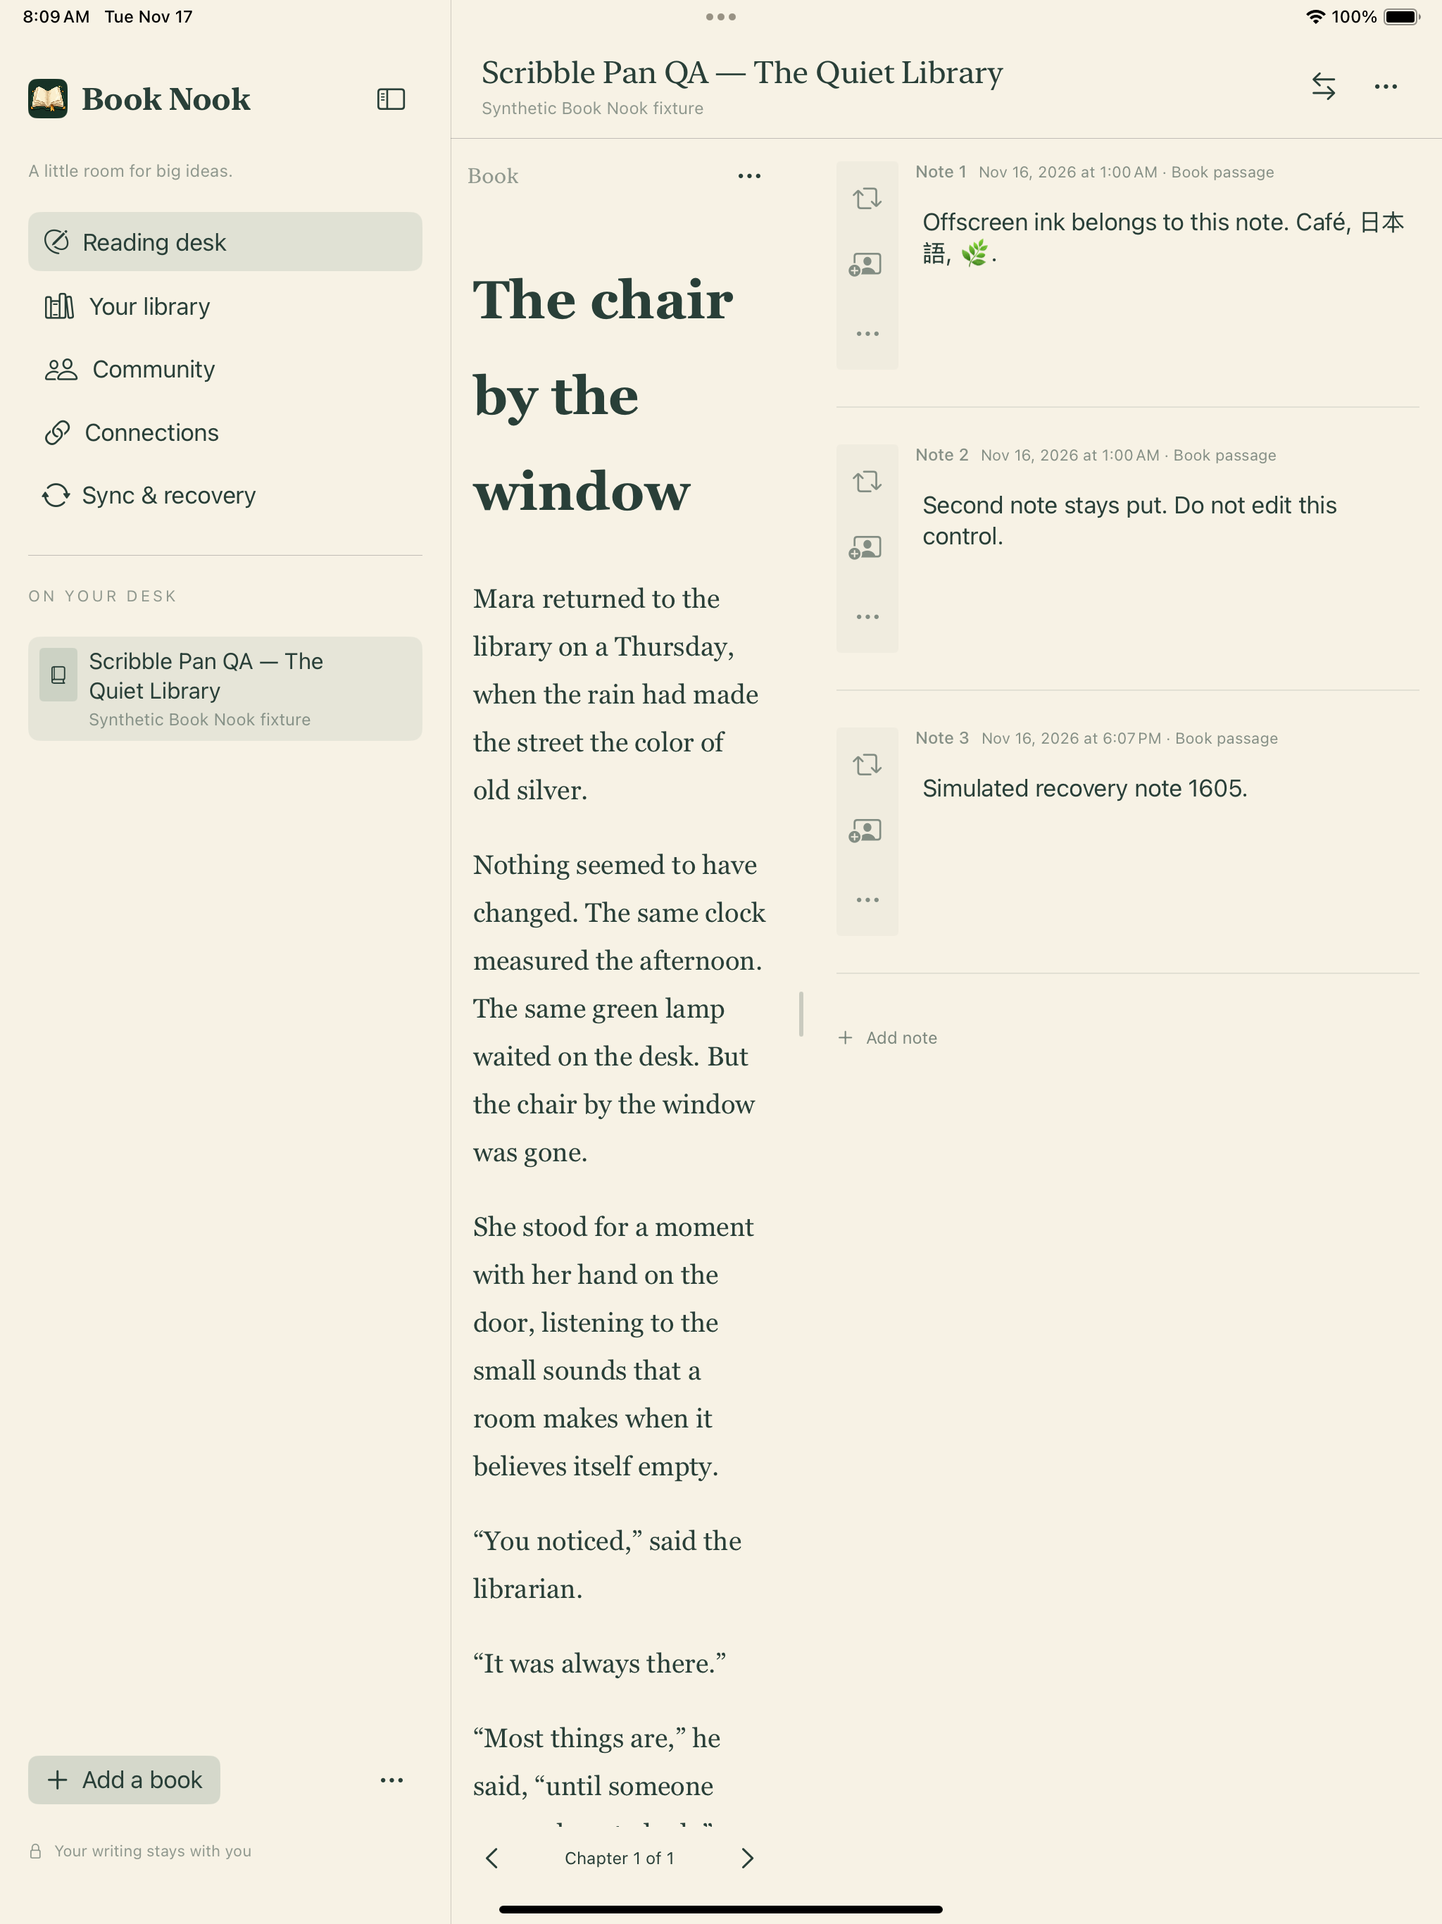
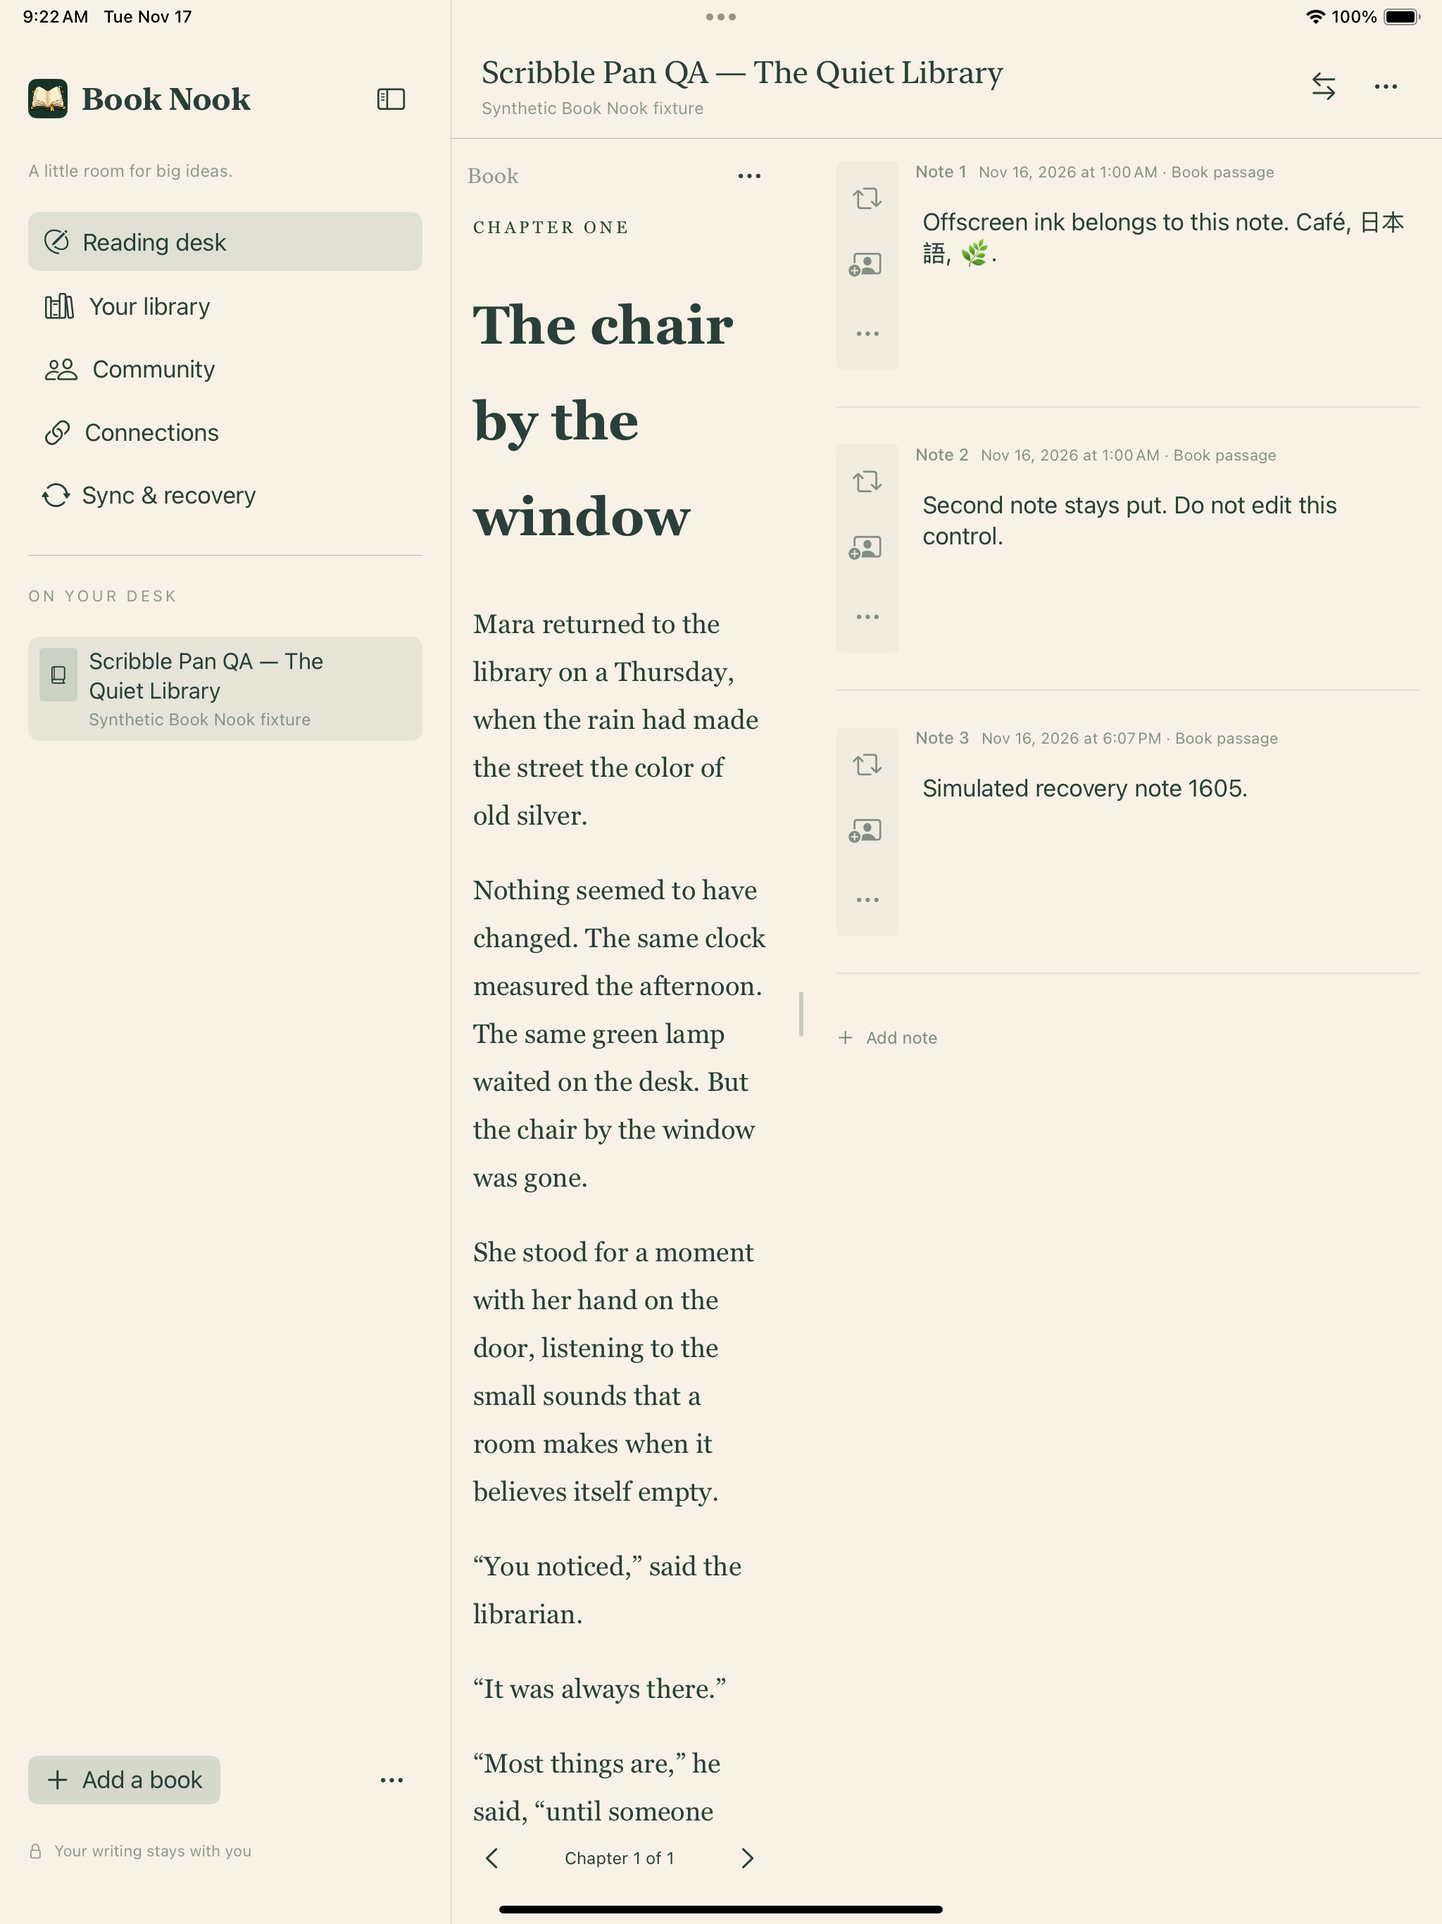
Document Book Nook app preview 1704 and refresh screenshots

Changed region(s): [[0.3125, 0.3111, 0.5312, 0.9645], [0.3125, 0.1245, 0.5, 0.28], [0.0312, 0.0, 0.0625, 0.0311]]

diff --git a/docs/PLAN-ACCEPTANCE.md b/docs/PLAN-ACCEPTANCE.md
@@ -10,15 +10,17 @@ This audit keeps the original native MVP and SDK scope intact. A passing source 
 
 Saving a character-card revision now captures the selected passage, time, reading pass, and available ebook and audio observations at the same point. The linked Swift workflow checks an unacknowledged reader observation, fresher ebook and audio updates, and a late branch outside the reviewed parents. The original context and independent branch survive SQLite reopen. The native portable archive regression also verifies export and restore. Older save commands and stored card versions use their existing contracts. [Versioned command schema and fixture](../ontology/commands/v1/manifest.json)
 
-## Native app 1704 source checkpoint
+## Native app 1704 public preview and iPad update
+
+[Build 1704 evidence](app-2026111704-public-preview-evidence.json) records three independently verified archives, eight matching public downloads, and the normal iPad update. A reader drew with a finger on 1703, and the saved stroke survived the update and relaunch. Pencil, hardware Undo/Redo, IME, VoiceOver, and minimum-OS execution remain open.
 
 Actual WebKit tests reproduce long EPUB and MOBI text runs losing their interior reading position in 1703. Two distinct visible lines now produce independent bounded quotes and reopen at the right text, including after font reflow. A separate native bridge test holds the initial restore to verify that provisional geometry cannot overwrite the saved location. Existing full-run locations remain readable, and ambiguous new positions leave the last saved location intact.
 
-The native group reply workflow binds the draft to an eligible parent in the same group and identifies that parent in the consent request. The Swift and SQLite workflow verifies exact reply content, eligibility, denied approval and draft recovery after reopening. A separate Mac Release walkthrough used a synthetic group to enter Unicode, mark spoilers, switch between Feed and Groups, and recover the exact unpublished draft after the locked signer refused approval. The polished composer uses the desk’s warm paper and names the group. Physical iPad interaction, live consent, relay delivery and public app archives have separate acceptance checks.
+The native group reply workflow binds the draft to an eligible parent in the same group and identifies that parent in the consent request. The Swift and SQLite workflow verifies exact reply content, eligibility, denied approval and draft recovery after reopening. A separate Mac Release walkthrough used a synthetic group to enter Unicode, mark spoilers, switch between Feed and Groups, and recover the exact unpublished draft after the locked signer refused approval. The polished composer uses the desk’s warm paper and names the group. Physical group interaction, live consent, and relay delivery remain open.
 
 ## Native app 1703 attached editions
 
-[Build 1703 evidence](app-2026111703-public-preview-evidence.json) records a hands-on Mac edition switch, an actual WebKit EPUB check, and SQLite recovery of placements and highlights for both editions. All three exact archives, eight public downloads, and the in-place physical iPad update passed. Both [reading desk screenshots](screenshots/README.md) use the released build. Current physical input and minimum-OS execution remain open.
+[Build 1703 evidence](app-2026111703-public-preview-evidence.json) records a hands-on Mac edition switch, an actual WebKit EPUB check, and SQLite recovery of placements and highlights for both editions. All three exact archives, eight public downloads, and the in-place physical iPad update passed. The earlier reading desk screenshots used the released build. The later 1704 checkpoint records the follow-up on physical finger input and update preservation.
 
 ## Native app 1702 EPUB placement feedback
 
@@ -200,7 +202,7 @@ This later user request adds notebook handwriting, retained original ink after t
 | Denied/expired authority and forged identity | Exact issuer/holder signature and replay tests, binding revocation and policy changes, private admission proof negative cases. |
 | Relay outage/duplicate/membership change | Independent local relay ACK/outage/restart plus actual three-native-desk private admission/discussion/removal, transactional retry/retraction, causal replay and request-convergence regressions, and native/WASM parity. |
 | Contract parity and lossless exports | Generated-contract freshness, published conformance fixtures, strict typed SDK tests and full native→WASM→native envelope equality for assets, rich text, character history, branched ink/transcripts and social state. Eleven rejected-import cases leave native state unchanged; independent package consumers pass. |
-| Physical input and user interaction | Prior actual macOS typing/undo/paste/highlight/history/reopen/discovery interaction; native framework tests and simulator rendering. Physical iPad tests on 2026-10-15 passed Connections/profile review and settings persistence, exact automated ASCII typing/undo/redo/save/reopen, both Community picker cancellations, reader controls and character-history navigation. A real hardware-keyboard note was verified saved, and the user confirmed Larger text worked. A strict settled geometry check and final uninstrumented undo/redo/reopen pass for repaired caret visibility. The historical compact reader/focus/import-cancellation/reopen path has separate bounded evidence above. No new physical acceptance covers current automatic notebook input or the resizable split. Community file acceptance, remaining controls, Pencil, broader keyboard/IME, VoiceOver and extended use remain open. [Earlier evidence](physical-ipad-evidence.json). |
+| Physical input and user interaction | Prior actual macOS typing/undo/paste/highlight/history/reopen/discovery interaction; native framework tests and simulator rendering. Physical iPad tests on 2026-10-15 passed Connections/profile review and settings persistence, exact automated ASCII typing/undo/redo/save/reopen, both Community picker cancellations, reader controls and character-history navigation. A real hardware-keyboard note was verified saved, and the user confirmed Larger text worked. A strict settled geometry check and final uninstrumented undo/redo/reopen pass for repaired caret visibility. The historical compact reader/focus/import-cancellation/reopen path has separate bounded evidence above. The 1704 checkpoint records 1703 finger input and update preservation. Current Pencil input and the resizable split still need physical interaction checks. Community file acceptance, remaining controls, Pencil, broader keyboard/IME, VoiceOver and extended use remain open. [Earlier evidence](physical-ipad-evidence.json). |
 
 ## Packaging and release boundary
 

diff --git a/docs/DELIVERY.md b/docs/DELIVERY.md
@@ -2,6 +2,8 @@
 
 Book Nook has an integrated native development app and open Rust, Swift, and WASM/TypeScript SDKs. Production qualification still requires live source accounts, operational Castalia authority, remote exchange, hands-on physical iPad checks, and runtime checks on the oldest supported OS versions.
 
+[Native app preview 0.2.1, build 2026111704](https://github.com/bananawalnut/booknook/releases/tag/v0.2.1-app-preview.20261117.4) adds group replies and recovers the visible line inside long EPUB and MOBI text runs. All 38 source CI steps, three independently verified Apple archives and eight public downloads passed. The normal iPad app updated in place and launched with its library, saved ink and observed orientation preserved. The finger stroke was drawn on 1703. Pencil, hardware Undo/Redo, IME and VoiceOver remain open. [Build 1704 evidence](app-2026111704-public-preview-evidence.json)
+
 [Native app preview 0.2.1, build 2026111703](https://github.com/bananawalnut/booknook/releases/tag/v0.2.1-app-preview.20261117.3) lets readers reopen earlier attached editions with their respective positions and highlights. All 38 source CI steps, three independently checked Apple archives and eight public downloads passed. The released Mac app switched between a synthetic MOBI and EPUB. The normal physical iPad app launched with its database and orientation preserved after the update. [Build 1703 evidence](app-2026111703-public-preview-evidence.json)
 
 [Native app preview 0.2.1, build 2026111702](https://github.com/bananawalnut/booknook/releases/tag/v0.2.1-app-preview.20261117.2) reports why an EPUB highlight is unplaced and keeps the saved quote and chapter in reach. All 38 source CI steps, three independently checked Apple archives and eight public downloads passed. The normal iPad app launched after an in-place update with the database and orientation preserved. [Build 1702 evidence](app-2026111702-public-preview-evidence.json)
@@ -12,7 +14,7 @@ Book Nook has an integrated native development app and open Rust, Swift, and WAS
 
 [SDK 0.2.2 delivery evidence](sdk-022-public-preview-evidence.json) records six exact packages and 17 matching public downloads. The synthetic Rust, Chrome, and Swift round trip preserved the original MOBI, portable archive, and regenerated XHTML. Physical hardware, live integrations, and minimum-OS execution retain their separate acceptance gates.
 
-The normal iPad app was updated in place from 1605 to **0.2.1, build 2026111607**, using the existing Apple development identity. The stored library and orientation matched before and after the update and launch. A separate [iPadOS 18.6 Simulator test](https://github.com/bananawalnut/booknook/actions/runs/44015697360) saved a continuous Scribble stroke in native and portable formats and recovered it after relaunch. Physical finger, Pencil, hardware keyboard, and VoiceOver checks remain open. The earlier 1601 [install](ipad-2026111601-install-evidence.json) and [launch](ipad-2026111601-launch-evidence.json) records retain their original scope.
+The normal iPad app was updated in place from 1605 to **0.2.1, build 2026111607**, using the existing Apple development identity. The stored library and orientation matched before and after the update and launch. A separate [iPadOS 18.6 Simulator test](https://github.com/bananawalnut/booknook/actions/runs/44015697360) saved a continuous Scribble stroke in native and portable formats and recovered it after relaunch. Physical input was outside this earlier checkpoint. The earlier 1601 [install](ipad-2026111601-install-evidence.json) and [launch](ipad-2026111601-launch-evidence.json) records retain their original scope.
 
 ## Historical app 1601 and Mac caret reflow — 2026-11-16
 

diff --git a/README.md b/README.md
@@ -6,6 +6,8 @@ A native reading notebook for macOS and iPad, backed by open Rust, Swift and WAS
 
 The implementation includes an offline reading desk, rich TextKit editing, EPUB, PDF, and legacy MOBI6 reading and annotation, character interpretation history, imports, Castalia consent, approved encrypted device transfers, Nostr social workflows, and reviewed RSS/Atom settings with offline publications. **It is not a qualified production release:** live Kindle/Audible/Castalia access, current physical input/accessibility, remote social/device sync and minimum-OS runtime checks remain open. Unavailable integrations return explicit errors. See [delivery status](docs/DELIVERY.md), the [full-plan acceptance matrix](docs/PLAN-ACCEPTANCE.md), [validation](docs/VALIDATION.md), the [decision log](docs/DECISIONS.md), the [UX review](docs/UX-REVIEW.md), and [DevGraph work tracking](docs/DEVGRAPH.md).
 
+**[App preview 0.2.1, build 2026111704](https://github.com/bananawalnut/booknook/releases/tag/v0.2.1-app-preview.20261117.4)** improves reading-position recovery in long EPUB and MOBI passages and adds replies in reading groups. All eight public downloads passed checksum verification. The normal iPad app updated in place and reopened with its library and previously saved finger-drawn Scribble preserved. [Build 1704 evidence](docs/app-2026111704-public-preview-evidence.json)
+
 **[App preview 0.2.1, build 2026111703](https://github.com/bananawalnut/booknook/releases/tag/v0.2.1-app-preview.20261117.3)** adds **Book options → Attached editions** so readers can return to an earlier copy with its own reading position and highlights. Mac edition switching passed on the released app, all eight public downloads matched their checksums, and the normal iPad app launched after an update that preserved its library and orientation. [Build 1703 evidence](docs/app-2026111703-public-preview-evidence.json)
 
 **[App preview 0.2.1, build 2026111702](https://github.com/bananawalnut/booknook/releases/tag/v0.2.1-app-preview.20261117.2)** shows why a saved EPUB highlight is unplaced and keeps its original quote available in Saved annotations. All three Apple archives and all eight public downloads passed verification. The normal iPad app was updated in place and launched with its library and orientation preserved. [Build 1702 evidence](docs/app-2026111702-public-preview-evidence.json)
@@ -36,13 +38,13 @@ The earlier iPad acceptance check [updated the normal app in place to 0.2.1 (202
 
 **macOS — reading desk**
 
-![Book Nook macOS reading desk with a legacy MOBI book and two Margin notes on warm paper](docs/screenshots/macos-current.jpg)
+![Book Nook macOS reading desk with an EPUB and two Margin notes on warm paper](docs/screenshots/macos-current.jpg)
 
 **iPad — reading desk**
 
 ![Book Nook iPad reading desk in portrait, with three text notes alongside an EPUB](docs/screenshots/ipad-current.png)
 
-Both images show native Release build **2026111703** using sample books. The Mac image uses a MOBI. The iPad Air 13-inch Simulator image uses an EPUB. [Capture details](docs/screenshots/README.md)
+Both images show native Release build **2026111704** using sample EPUBs. The iPad image comes from an iPad Air 13-inch Simulator. [Capture details](docs/screenshots/README.md)
 
 ## Run the native apps
 

diff --git a/docs/DECISIONS.md b/docs/DECISIONS.md
@@ -273,3 +273,4 @@ Detailed workstream records: [social](decisions/social.md), [integrations](decis
 | D185 | Save the visible line within long EPUB and MOBI text runs. | Store a bounded source quote with exact surrounding text. If placement cannot be resolved uniquely, keep the last useful saved position. Preserve the existing location format and restore older full-run quotes. Hold only position writes while the initial WebKit restore is pending. |
 | D186 | Give native group discussions an explicit Reply action. | Bind each draft to the reader, group, and parent record. Recheck visibility before consent, disclose the parent identifier without copying its text, and preserve a private draft when approval is canceled or denied. Approved replies use the existing outbox and require a separate send. |
 | D187 | Freeze reading context when saving a character-card revision. | Capture the selected passage, time, reviewed parents, reading pass and available source observations together before persistence. Publish an additive command contract and SDK 0.2.3 candidate. Keep existing Rust constructors, JSON commands, stored card history and issued ontology release artifacts compatible. [Command contract](../ontology/commands/v1/manifest.json) |
+| D188 | Publish app preview 1704 and verify the normal iPad update separately. | Release the exact hosted source as an app-only preview. Check three fresh archives and all eight downloaded assets. Use the existing Apple development profile for the in-place iPad update, verify saved ink through relaunch, and leave orientation to the device. Use released binaries with synthetic libraries for README screenshots. Record the finger stroke on 1703 and its preservation on 1704. [Build 1704 evidence](app-2026111704-public-preview-evidence.json) |

diff --git a/docs/screenshots/README.md b/docs/screenshots/README.md
@@ -4,7 +4,7 @@ Both captures use native Book Nook **0.2.1 Release apps** and synthetic desks.
 
 | Screenshot | Build | Workspace | Capture environment |
 |---|---|---|---|
-| [macOS reading desk](macos-current.jpg) | 2026111703 | A legacy MOBI passage and two Margin notes | macOS 26.4.1 native app window |
-| [iPad reading desk](ipad-current.png) | 2026111703 | *The Quiet Library* EPUB and three Margin notes | iPad Air 13-inch (M2), iPadOS 18.6 Simulator, portrait |
+| [macOS reading desk](macos-current.jpg) | 2026111704 | The Pocket Orchard EPUB and two Margin notes | macOS 26.4.1 native app window |
+| [iPad reading desk](ipad-current.png) | 2026111704 | *The Quiet Library* EPUB and three Margin notes | iPad Air 13-inch (M2), iPadOS 18.6 Simulator, portrait |
 
-The Mac image is an actual app window with an 80-pixel top crop. The iPad image preserves the original Simulator framebuffer. [Capture metadata](current.json) identifies each executable, source commit and image hash. [Build 1703 evidence](../app-2026111703-public-preview-evidence.json) records the separate installation on the physical iPad.
+The Mac image is an actual app window with an 80-pixel top crop. The iPad image preserves the original Simulator framebuffer. [Capture metadata](current.json) identifies each executable, source commit and image hash. [Build 1704 evidence](../app-2026111704-public-preview-evidence.json) records the separate installation on the physical iPad.
